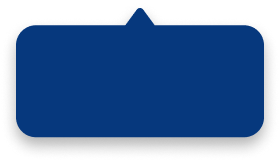
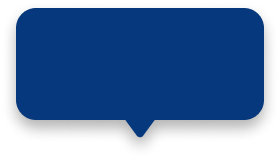
design: 경품 응모 페이지 변경된 UI 적용

Changed region(s): [[0.0571, 0.6481, 0.9714, 0.9259], [0.0571, 0.0309, 0.9714, 0.2469]]

diff --git a/src/components/pages/stamp/PrizeApplyForm.tsx b/src/components/pages/stamp/PrizeApplyForm.tsx
@@ -1,3 +1,5 @@
+"use client";
+
 import { BackButton } from "@/components/common";
 import { authFetcher } from "@/lib/api/fetcher";
 import Image from "next/image";
@@ -46,10 +48,11 @@ export default function PrizeApplyForm({
 
   return (
     <>
+      {/* 배경 이미지 */}
       <div className="fixed inset-0 -z-10">
         <Image
           src="/stamp-bg.png"
-          alt="도장판 인적사항 입력 배경 이미지"
+          alt="도장판 배경 이미지"
           fill
           priority
           className="object-cover object-top"
@@ -68,13 +71,13 @@ export default function PrizeApplyForm({
         </div>
 
         <section className="flex-1 flex flex-col items-center justify-center">
-          <div className="w-[245px] h-[175px] bg-gray-200 flex items-center justify-center text-center mb-[66px] rounded-lg text-sm text-gray-600">
+          <div className="w-[245px] h-[175px] bg-gray-200 flex items-center justify-center text-center mb-[80px] rounded-lg text-sm text-gray-600">
             축기단 경품 안내 카드뉴스
             <br />
             이미지가 들어갈 자리입니다.
           </div>
 
-          <div className="w-full relative mb-[91px]">
+          <div className="w-full relative mb-[77px] px-2">
             <div className="w-full h-5 bg-text-sub2 rounded-[10px] overflow-hidden">
               <div
                 className="bg-primary h-full transition-all duration-700"
@@ -83,25 +86,39 @@ export default function PrizeApplyForm({
             </div>
 
             <div
-              className="absolute top-0 -translate-x-1/2 -translate-y-1/4 flex flex-col items-center gap-[3px]"
-              style={{ left: `${progressPercentage}%` }}
+              className="absolute -top-2 -translate-x-1/2 -translate-y-1/2 flex flex-col items-center"
+              style={{
+                left: `clamp(35px, ${progressPercentage}%, calc(100% - 25px))`,
+              }}
             >
-              <Image src="/prize.png" alt="선물상자" width={62} height={62} />
-
-              <div className="relative w-[62px] h-[42px] flex items-center justify-center">
-                <Image src="/count-bubble.png" alt="도장 개수 말풍선" fill />
-                <span className="absolute inset-0 flex items-center justify-center text-white text-[16px] font-semibold">
+              <div className="relative w-[62px] h-[42px] flex items-center justify-center z-10">
+                <Image
+                  src="/count-bubble.png"
+                  alt="도장 개수 말풍선"
+                  fill
+                  className="object-contain"
+                />
+                <span className="absolute inset-0 flex items-center justify-center text-white text-[16px] font-semibold pb-1.75">
                   {stampCount}개
                 </span>
               </div>
+
+              <Image
+                src="/star-on.png"
+                alt="별"
+                width={70}
+                height={70}
+                className="-mt-2 relative z-0"
+              />
             </div>
-            <span className="absolute right-0 -bottom-8 text-text-sub text-[16px] font-medium">
+
+            {/* <span className="absolute right-0 -bottom-8 text-text-sub text-[16px] font-medium">
               {stampAll}개
-            </span>
+            </span> */}
           </div>
 
-          <div className="w-full flex flex-col items-center justify-center gap-2 mb-10">
-            <span className="text-[16px] font-[500]">
+          <div className="w-full flex flex-col items-center justify-center gap-2 mb-10 px-2">
+            <span className="text-[16px] font-medium">
               STAFF에게 해당 화면을 보여 주세요!
             </span>
 
@@ -116,9 +133,10 @@ export default function PrizeApplyForm({
 
           <button
             onClick={handlePrizeApply}
-            className="bg-primary px-[33px] py-[15px] text-[20px] font-semibold text-white rounded-[30px]"
+            disabled={isLoading}
+            className="bg-primary px-[33px] py-[15px] text-[20px] font-semibold text-white rounded-[30px] transition-all active:scale-[0.98] disabled:opacity-50"
           >
-            경품 응모하기
+            {isLoading ? "응모 중..." : "경품 응모하기"}
           </button>
         </section>
       </div>
